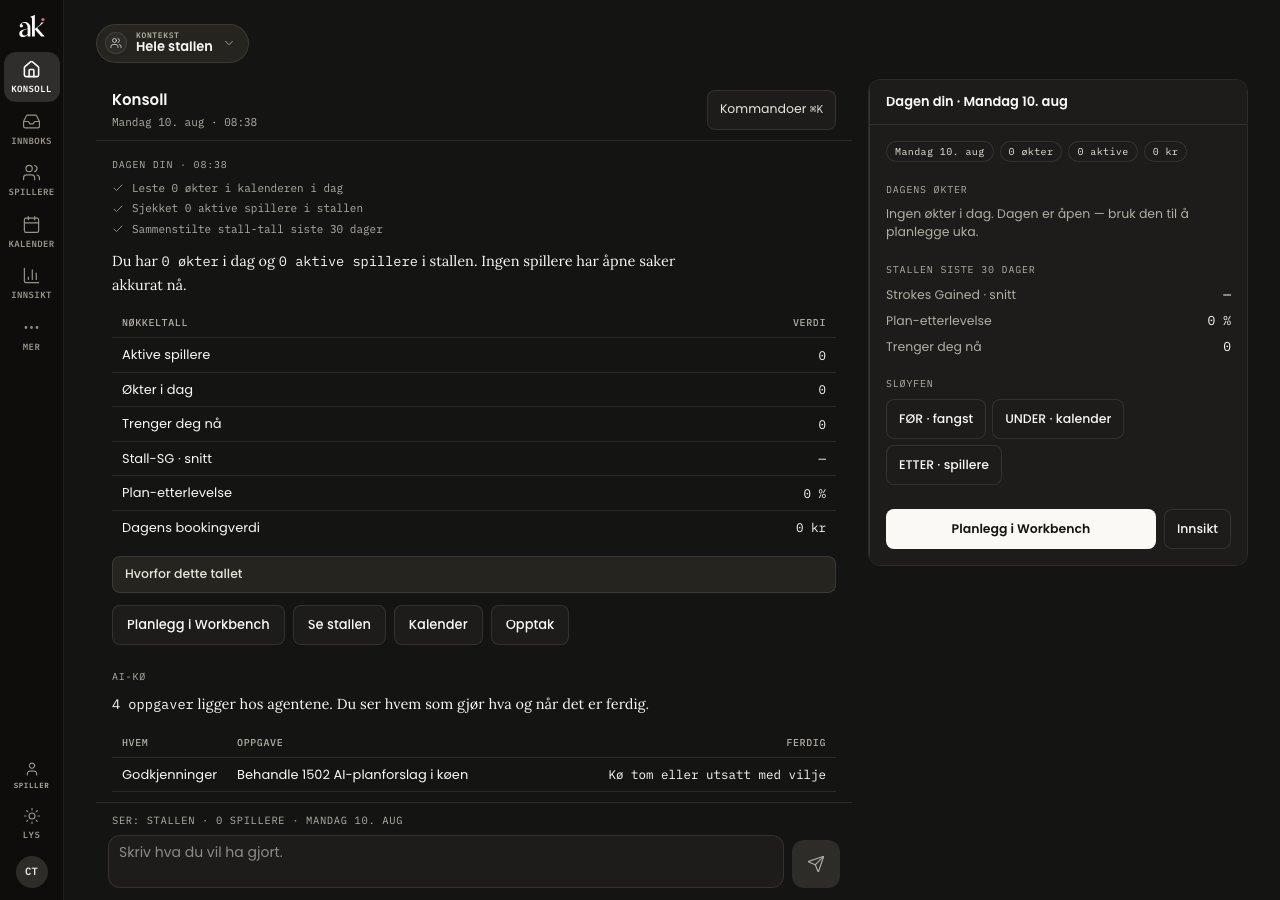
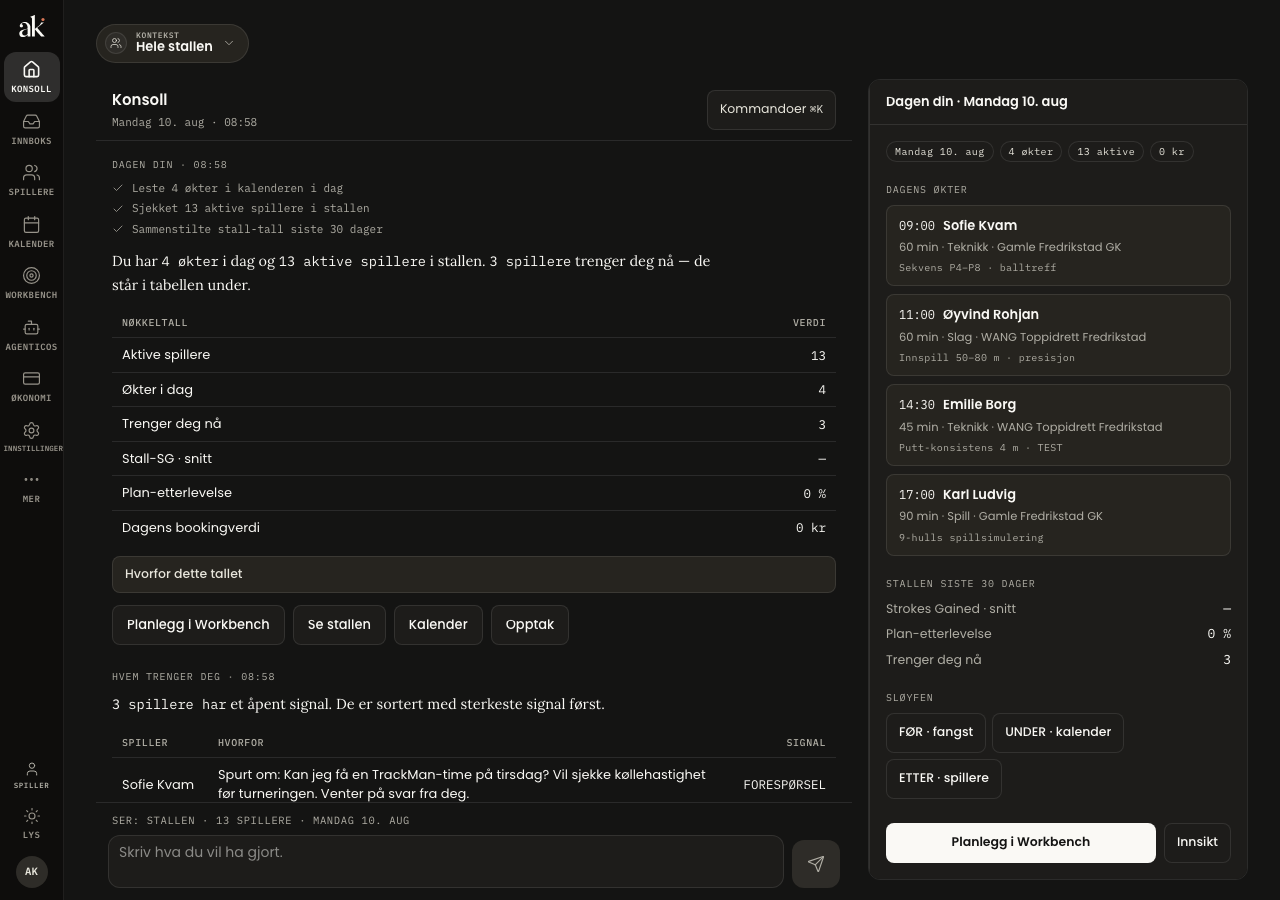
feat(paper): AgencyOS-railen til åtte punkter, 1:1 med Paper-fasiten
Anders' beslutning 10.08: følg fasiten nøyaktig.

- AGENCYOS_NAV: Konsoll · Innboks · Spillere · Kalender · Workbench ·
  AgenticOS · Økonomi · Innstillinger. De fire siste er løftet opp fra «Mer»;
  rommene blir stående (railen vinner ved dublett, mobil-«Mer» bruker dem).
- «Innsikt» ut av railen — den er ikke i fasiten. Ikke borte: /admin/analyse
  nås fra Cmd+K og fra artefaktpanelets «Innsikt»-knapp. Rute-mappingen står
  igjen med kommentar om hvorfor den ikke skal «rettes» tilbake.
- /admin/planlegge lyser nå Workbench, ikke Spillere.
- Mobil-bunnen tar fem (fasitens mobil-rail); resten faller i «Mer»-skuffen.
- Rail-etiketter over 10 tegn krymper i stedet for å klippes — «Innstillinger»
  ble til «INNSTILLINGE» i 64px railen.

Overflyt målt på /admin/{agencyos,innboks,spillere,kalender,planlegge} i
1280px og 390px: scrollWidth = vindusbredde overalt.
npm run verify grønt, 943/943 tester.

diff --git a/src/components/v2/shell.tsx b/src/components/v2/shell.tsx
@@ -77,16 +77,27 @@ export const PLAYERHQ_NAV: V2NavItem[] = [
 ];
 
 /**
- * AgencyOS primær-nav: 5 jobber. Hub-faner (Kø / Kalender / Innsikt) samler
- * det som tidligere var 20+ «Mer»-lenker. Se agency-hub-subnav.tsx.
+ * AgencyOS primær-nav — ÅTTE punkter, 1:1 med Paper-fasitens rail
+ * (`agencyos-konsoll-desktop.html`, `<nav class="rail">`). Låst av Anders
+ * 2026-08-10, sammen med PP-2.1.
+ *
+ * «Innsikt» sto her frem til 10.08 og er IKKE i fasiten. Den er ikke borte:
+ * /admin/analyse nås fra Cmd+K og fra «Innsikt»-knappen nederst i konsollens
+ * artefaktpanel. Ikke legg den tilbake i railen uten at fasiten endres først.
+ *
+ * Workbench, AgenticOS, Økonomi og Innstillinger er løftet OPP fra «Mer» hit.
+ * De blir stående i AGENCYOS_ROM også — railen vinner ved dublett, men
+ * rommene bærer beskrivelsene og er fortsatt mobil-«Mer»-innholdet.
  */
 export const AGENCYOS_NAV: V2NavItem[] = [
-  /* Paper fasit agencyos-*.html rail: Konsoll · Innboks · Spillere · Kalender (+ Workbench i Mer) */
   { id: "cockpit", label: "Konsoll", icon: "home", href: "/admin/agencyos" },
   { id: "innboks", label: "Innboks", icon: "inbox", href: "/admin/innboks" },
   { id: "spillere", label: "Spillere", icon: "users", href: "/admin/spillere" },
   { id: "kalender", label: "Kalender", icon: "calendar", href: "/admin/kalender" },
-  { id: "innsikt", label: "Innsikt", icon: "bar-chart", href: "/admin/analyse" },
+  { id: "workbench", label: "Workbench", icon: "target", href: "/admin/planlegge" },
+  { id: "agenticos", label: "AgenticOS", icon: "bot", href: "/admin/agents" },
+  { id: "okonomi", label: "Økonomi", icon: "credit-card", href: "/admin/agencyos/okonomi", adminOnly: true },
+  { id: "innstillinger", label: "Innstillinger", icon: "settings", href: "/admin/settings", adminOnly: true },
 ];
 
 /** Påfør kø-badge uten å mutere AGENCYOS_NAV-konstanten. erAgency sjekker id/href. */
@@ -336,7 +347,24 @@ function RailLenke({ item, on, dark }: { item: V2NavItem; on: boolean; dark?: bo
           </span>
         )}
       </span>
-      <span style={{ fontFamily: T.mono, fontSize: 9, fontWeight: 600, letterSpacing: "0.04em", textTransform: "uppercase", color: dark ? (on ? T.railOn : T.railFg) : (on ? T.fg : T.mut) }}>{item.label}</span>
+      {/* Railen er 64px bred. «Innstillinger» i 9px versal + 0.04em sperring
+          er bredere enn det og ble klippet til «INNSTILLINGE» (målt 10.08 da
+          railen gikk fra fem til åtte punkter). Lange etiketter krymper i
+          stedet for å bli kuttet — teksten er navigasjonen, ikke pynt. */}
+      <span
+        style={{
+          fontFamily: T.mono,
+          fontSize: item.label.length > 10 ? 7.5 : 9,
+          fontWeight: 600,
+          letterSpacing: item.label.length > 10 ? "0.01em" : "0.04em",
+          textTransform: "uppercase",
+          maxWidth: "100%",
+          textAlign: "center",
+          color: dark ? (on ? T.railOn : T.railFg) : (on ? T.fg : T.mut),
+        }}
+      >
+        {item.label}
+      </span>
     </Link>
   );
 }
@@ -638,7 +666,10 @@ function BunnNavLenker({ aktiv, nav, mer }: { aktiv?: string; nav: V2NavItem[]; 
    AGENCYOS_ROM (fem rom), så hele coach-flaten er nåbar. Mørkt tema beholdes
    (V2Shell holder AgencyOS mørk/lys via cookie som før). PlayerHQ-mobilen bruker
    fortsatt BunnNavLenker uendret. */
-const AGENCY_MOBIL_PRIMÆR = ["cockpit", "innboks", "spillere", "kalender"];
+/* Fem, ikke åtte: fasitens mobil-bunn (agencyos-konsoll-mobil.html) viser
+   Konsoll · Innboks · Spillere · Kalender · Workbench. AgenticOS, Økonomi og
+   Innstillinger faller automatisk ned i «Mer»-skuffen under (se `resten`). */
+const AGENCY_MOBIL_PRIMÆR = ["cockpit", "innboks", "spillere", "kalender", "workbench"];
 
 function AgencyBunnNav({ aktiv, nav, mer, rom }: { aktiv?: string; nav: V2NavItem[]; mer?: V2NavGruppe[]; rom?: V2Rom[] }) {
   const [skuffOpen, setSkuffOpen] = useState(false);
@@ -771,7 +802,7 @@ export function V2Shell({ aktiv, nav = PLAYERHQ_NAV, mer, rom, navn = "Øyvind R
       Planlegging: "kalender",
       "Tid og booking": "kalender",
       Innsikt: "innsikt",
-      "Workbench & plan": "spillere",
+      "Workbench & plan": "workbench",
     };
     let best: { id: string; href: string } | undefined;
     // Hub-ruter utenfor Mer → primær-seksjon (Kø / Kalender / Innsikt).
@@ -786,13 +817,18 @@ export function V2Shell({ aktiv, nav = PLAYERHQ_NAV, mer, rom, navn = "Øyvind R
       { prefix: "/admin/bookinger", id: "kalender" },
       { prefix: "/admin/agencyos/uka", id: "kalender" },
       { prefix: "/admin/availability", id: "kalender" },
+      /* «innsikt» er ikke lenger et rail-punkt (fasiten har åtte, uten den).
+         Mappingen står igjen med vilje: id-en treffer ingen rail-knapp, så
+         analyse-rutene får ingen markert seksjon — samme bevisste tomrom som
+         PlayerHQ har for «gjor». Ikke «rett» dette ved å legge Innsikt
+         tilbake i railen; fasiten må endres først. */
       { prefix: "/admin/analyse", id: "innsikt" },
       { prefix: "/admin/tester", id: "innsikt" },
       { prefix: "/admin/trackman", id: "innsikt" },
       { prefix: "/admin/runder", id: "innsikt" },
       { prefix: "/admin/reports", id: "innsikt" },
       { prefix: "/admin/analysere", id: "innsikt" },
-      { prefix: "/admin/planlegge", id: "spillere" },
+      { prefix: "/admin/planlegge", id: "workbench" },
       { prefix: "/admin/spillere", id: "spillere" },
       { prefix: "/admin/agencyos", id: "cockpit" },
     ];
